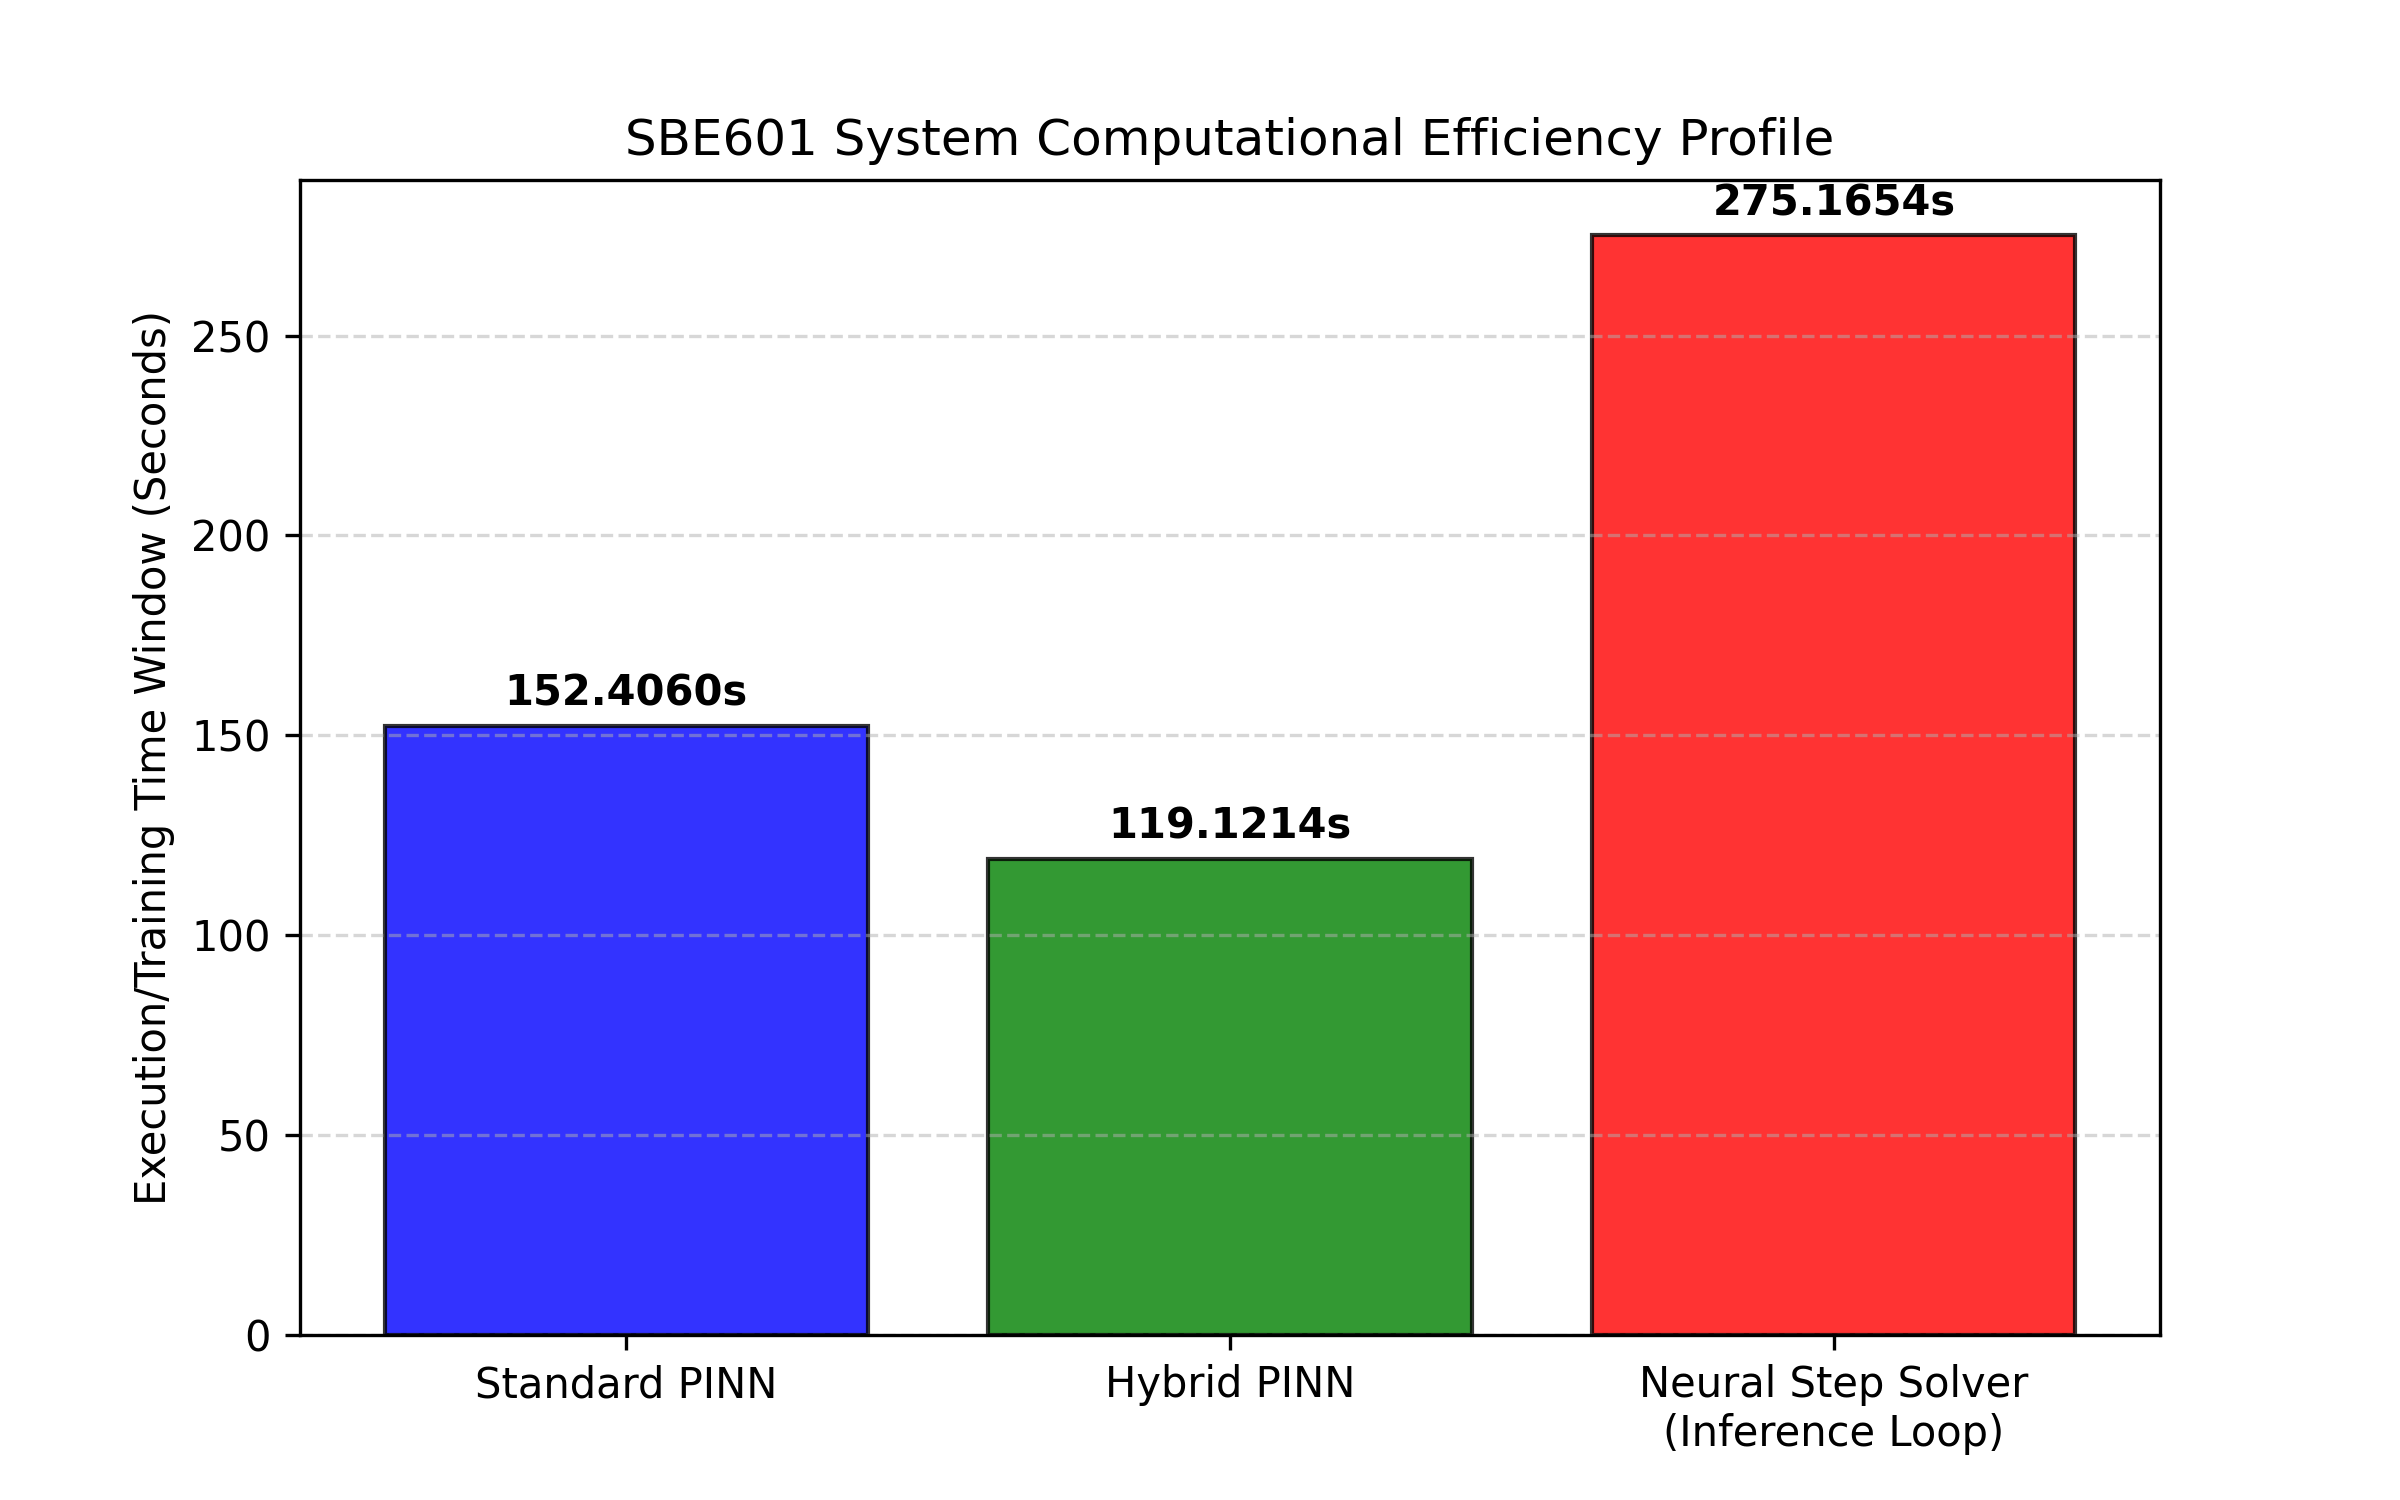
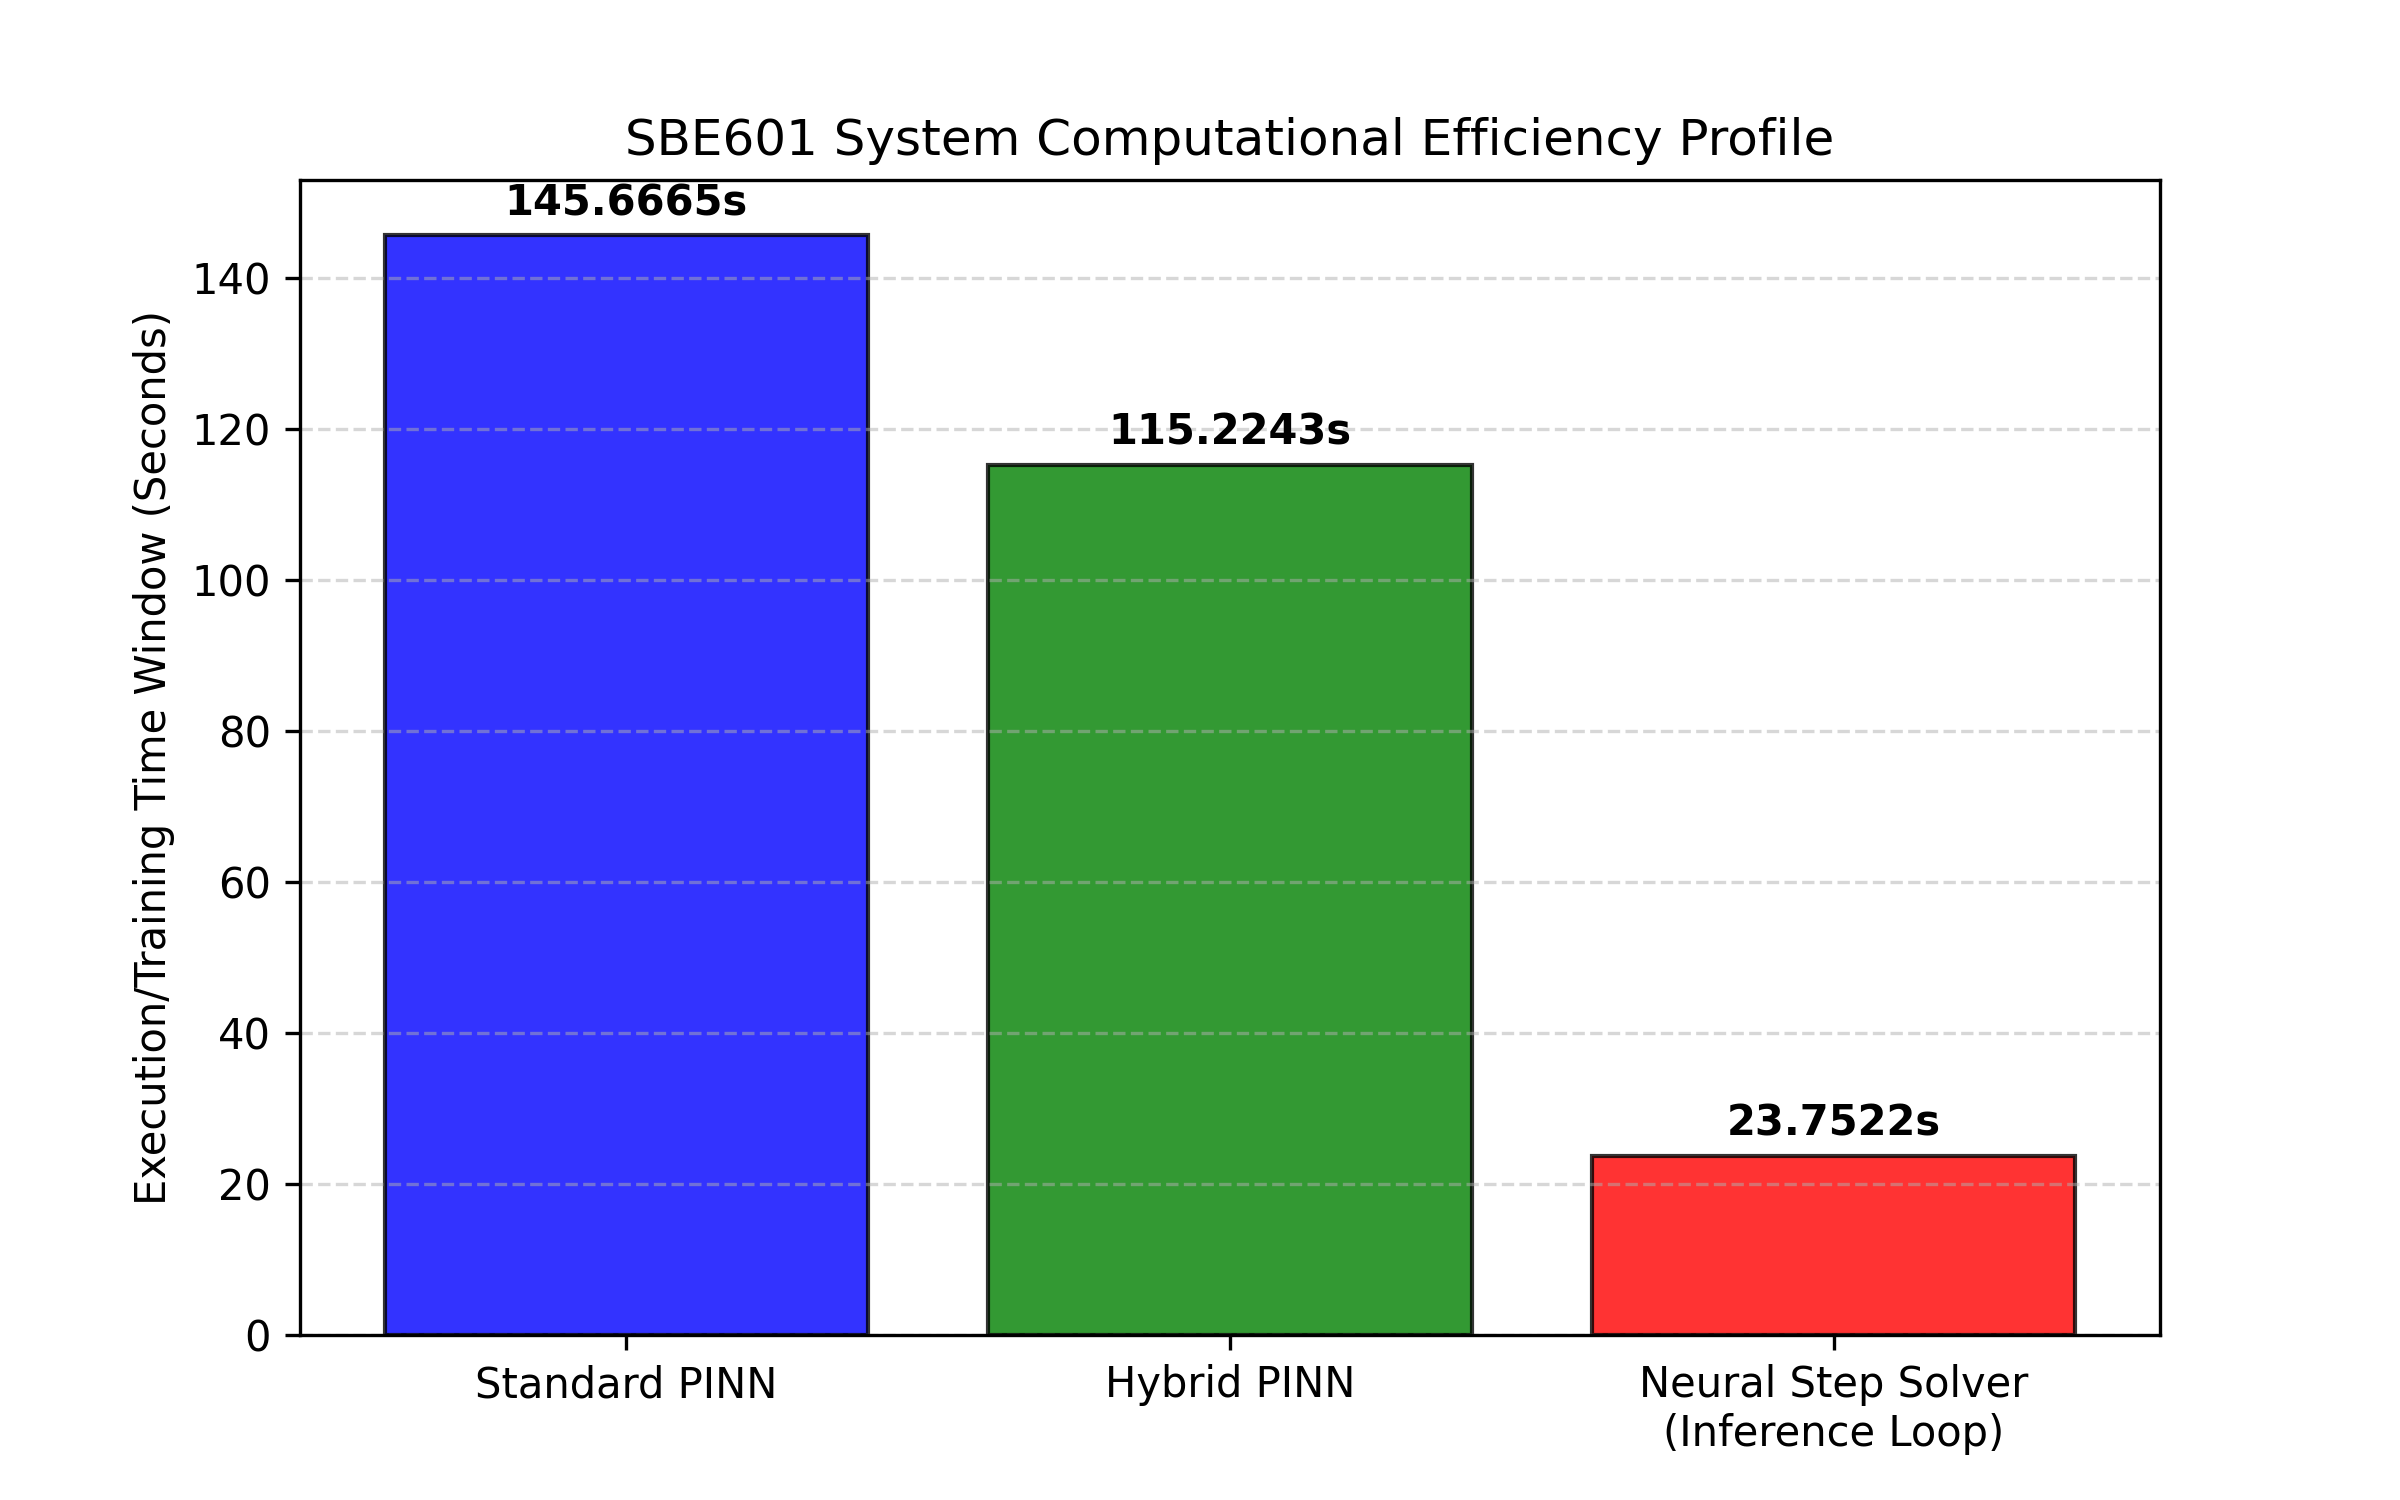
neural step solver enhancement

diff --git a/ML_techniques.py b/ML_techniques.py
@@ -112,9 +112,9 @@ class NeuralStepSolver(nn.Module):
     def __init__(self):
         super().__init__()
         self.net = nn.Sequential(
-            nn.Linear(1, 64), nn.Tanh(), 
-            nn.Linear(64, 64), nn.Tanh(),
-            nn.Linear(64, 1)
+            nn.Linear(100, 128), nn.Tanh(), 
+            nn.Linear(128, 128), nn.Tanh(),
+            nn.Linear(128, 100)
         )
         
     def forward(self, u_n, dt):
@@ -124,8 +124,8 @@ def pre_train_step_solver(model, U_numerical, dt, epochs=6000):
     optimizer = torch.optim.Adam(model.parameters(), lr=1e-3)
     
     # Train across the full sequential grid matrix pairs
-    inputs = torch.tensor(U_numerical[:-1, :], dtype=torch.float32).flatten().view(-1, 1)
-    targets = torch.tensor(U_numerical[1:, :], dtype=torch.float32).flatten().view(-1, 1)
+    inputs = torch.tensor(U_numerical[:-1, :], dtype=torch.float32)
+    targets = torch.tensor(U_numerical[1:, :], dtype=torch.float32)
     
     for epoch in range(epochs):
         pred_next = inputs + dt * model.net(inputs)
@@ -133,6 +133,9 @@ def pre_train_step_solver(model, U_numerical, dt, epochs=6000):
         optimizer.zero_grad()
         loss.backward()
         optimizer.step()
+
+        if epoch % 2000 == 0:
+            print(f"  Step Solver Pre-training Epoch {epoch}/6000 - Loss: {loss.item():.6f}")
     return model
 
 # =====================================================================
@@ -186,8 +189,8 @@ if __name__ == "__main__":
     print(f"Scheme 3 Offline Pre-training completed in {time_train_3:.2f} seconds.")
     
     # Execution loop
-    u_current = torch.zeros(100, 1)
-    u_current[0:15, 0] = 1.0  # Apply boundary trigger condition
+    u_current = torch.zeros(1, 100)
+    u_current[0, 0:15] = 1.0
     
     start_3 = time.time()
     for step in range(500): 
@@ -197,7 +200,7 @@ if __name__ == "__main__":
     print(f"Scheme 3 time-marching loop completed in {time_3:.4f} seconds.")
 
     # --- SAVE INFRASTRUCTURE OUTPUTS ---
-    u_pred_3 = u_current.numpy() 
+    u_pred_3 = u_current.numpy().T
 
     # Cleaned line assignment parsing the accurate textbook array indices
     t_index_05 = (np.abs(t_numerical - 0.5)).argmin()